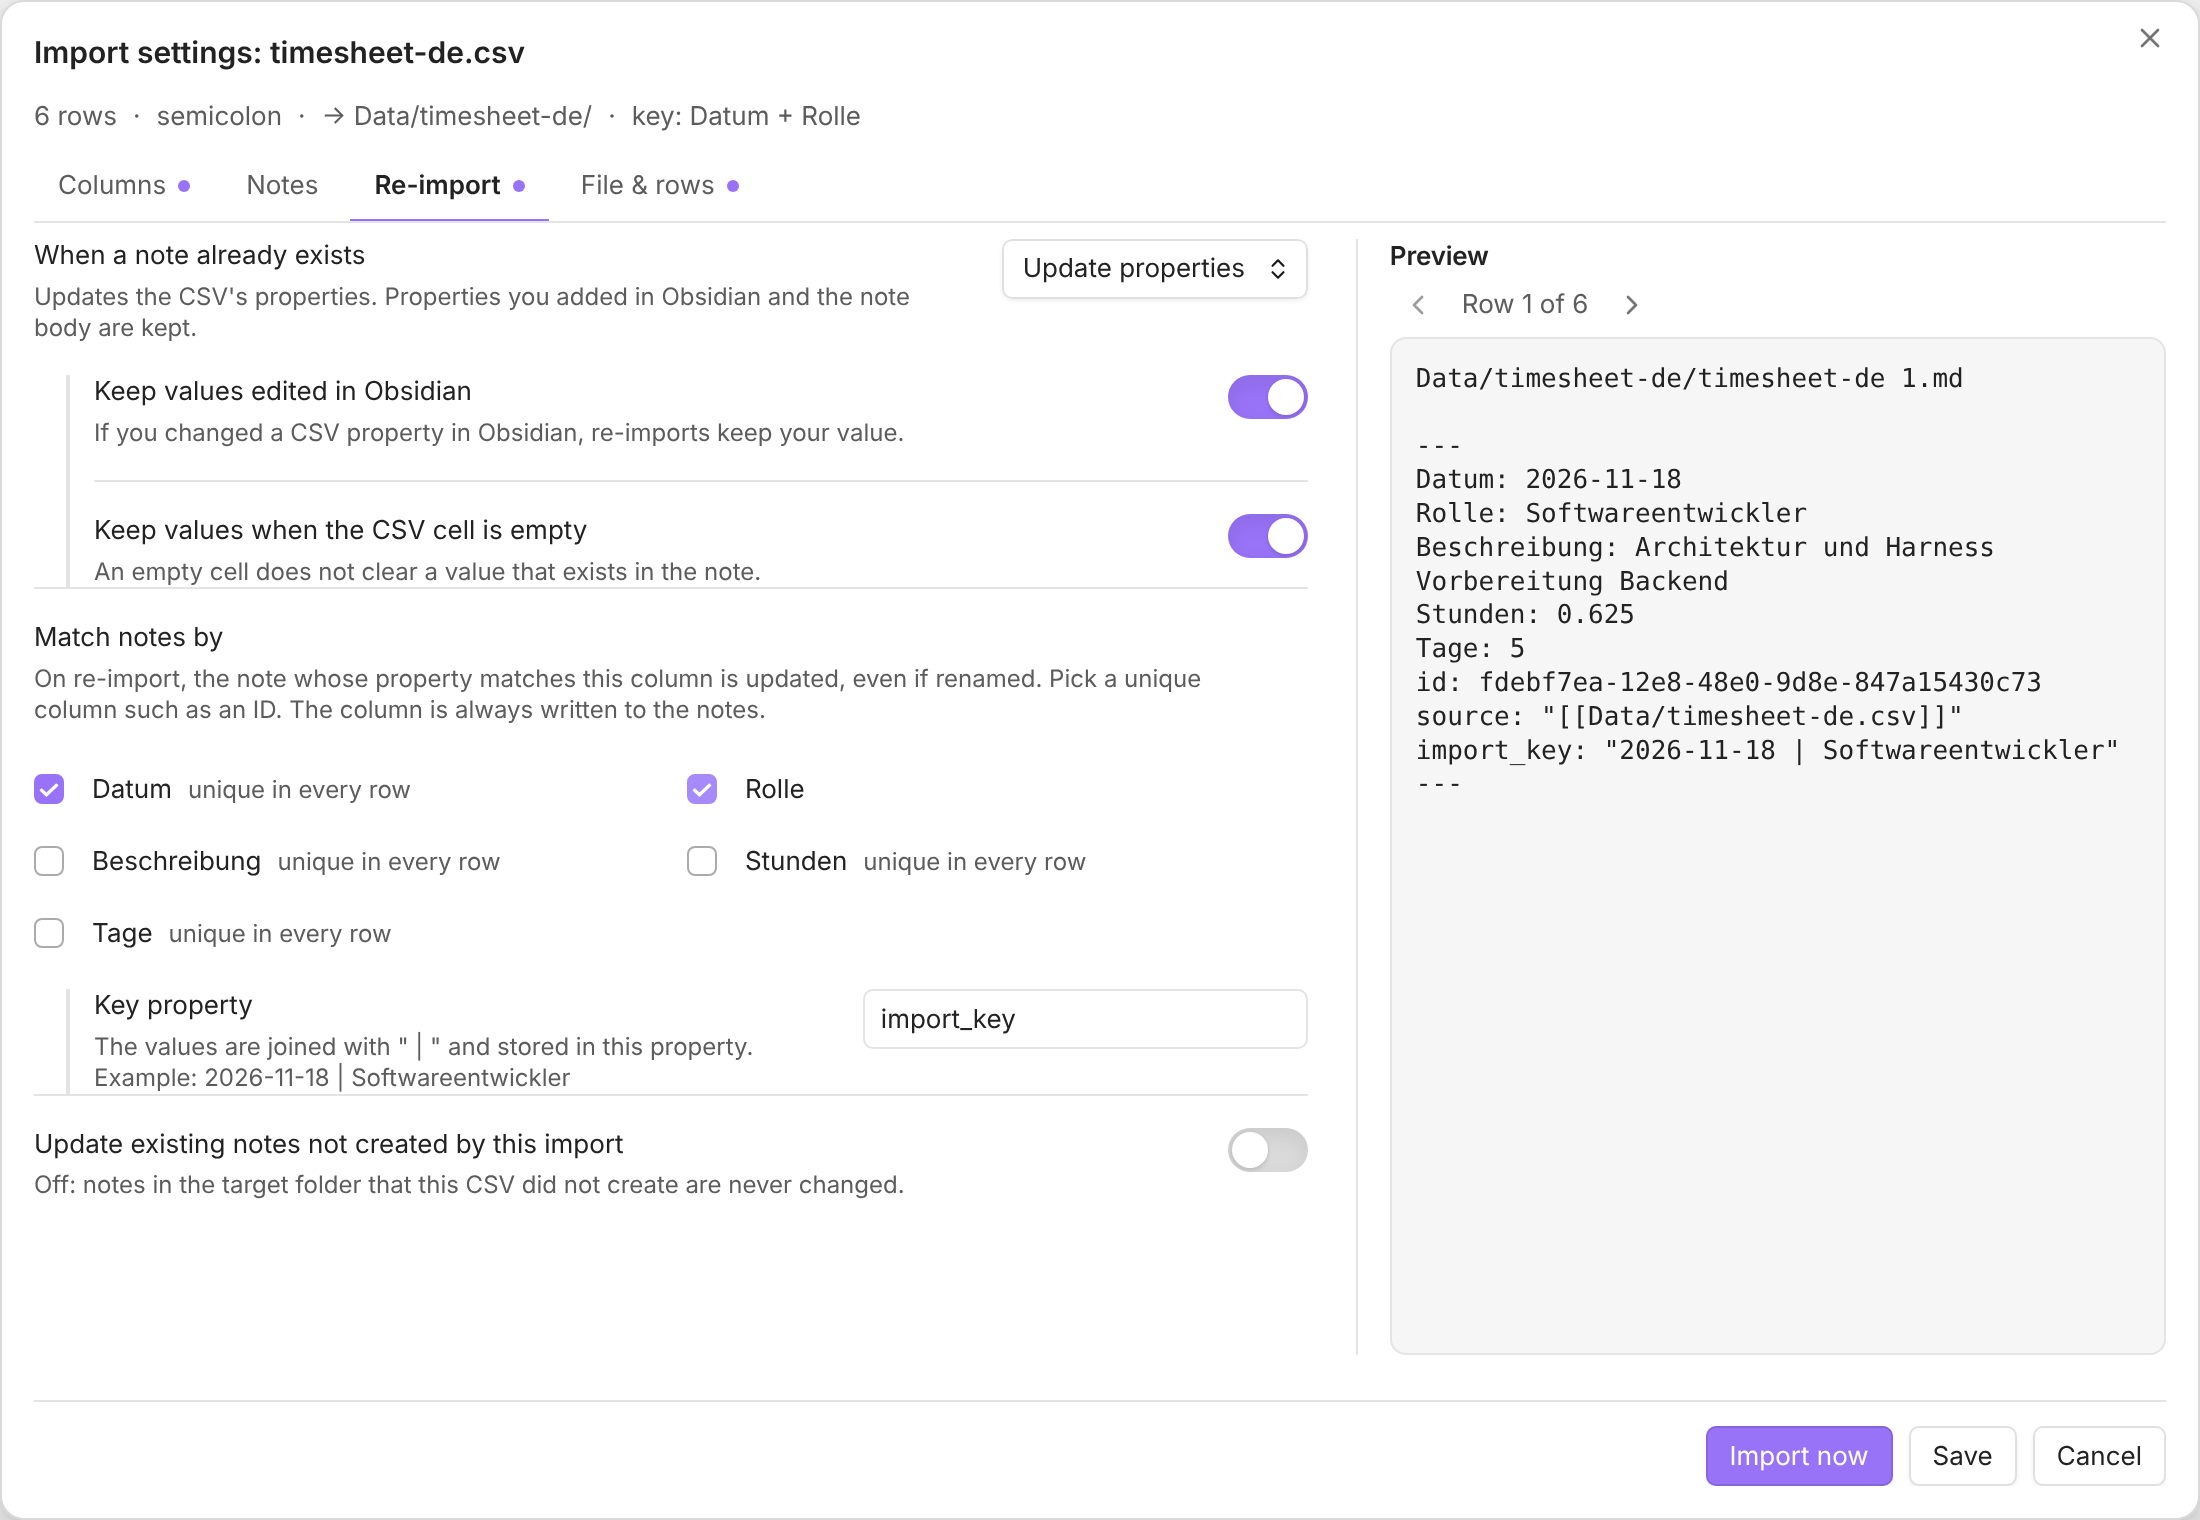
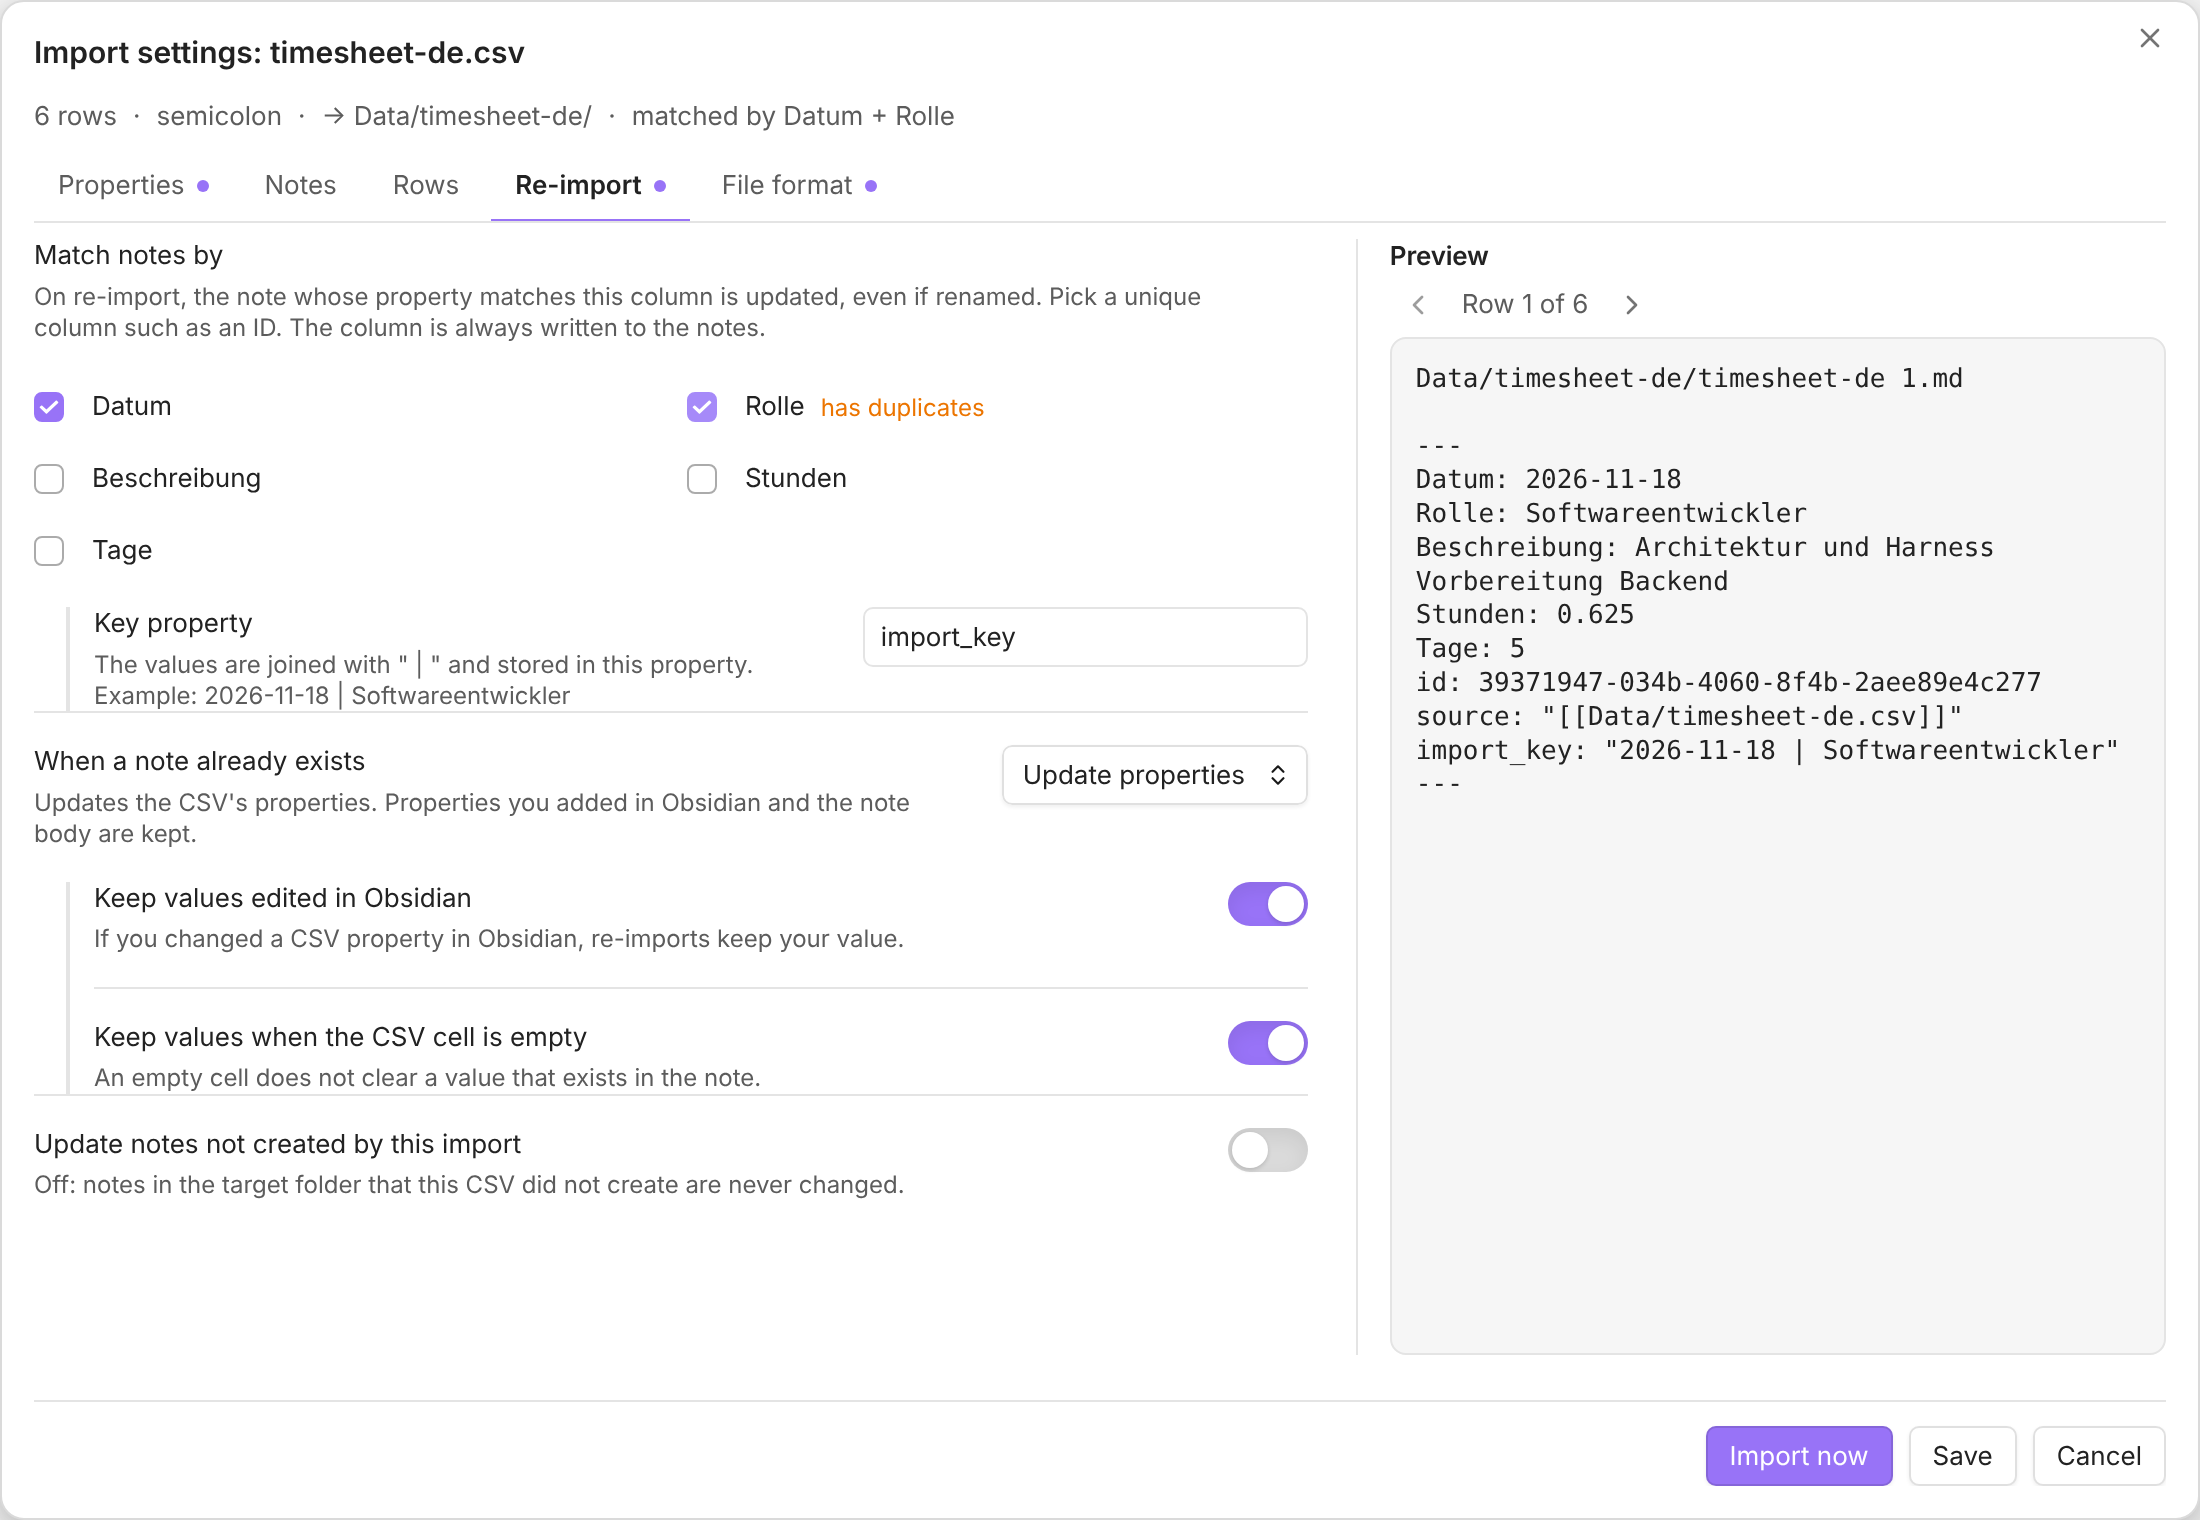
Regenerate README screenshots in real Obsidian; align section headings in the import settings
Claude-Session: https://claude.ai/code/session_012v81oWwwibjoBPovmmKJ4y

diff --git a/tests/e2e/specs/readme-screenshots.e2e.ts b/tests/e2e/specs/readme-screenshots.e2e.ts
@@ -89,6 +89,8 @@ describe("README screenshots", function () {
 		await runCommand("open-import-index");
 		await waitForViewType("csv-importer-index");
 		await browser.$("[data-testid=csv-index-row]").waitForDisplayed();
+		// The imports above leave "Created ….base" notices on screen; remove them so they don't cover the toolbar.
+		await browser.execute(() => document.querySelectorAll(".notice-container .notice").forEach((n) => n.remove()));
 		await browser.pause(800);
 		await capture("[data-testid=csv-index]", "imports-index");
 	});

diff --git a/styles.css b/styles.css
@@ -814,6 +814,13 @@ button.csv-importer-hidden:not(.clickable-icon) {
 	height: 24px;
 }
 
+/* Section headings inside a tab (Extra properties, Values): flush with the rows above, with room between sections.
+   Obsidian indents heading rows in some versions; the dialog's rows are not indented. */
+.csv-importer-config .setting-item.setting-item-heading {
+	padding-inline: 0;
+	margin-top: var(--size-4-4);
+}
+
 /* === end owner:config === */
 
 /* === owner:table-run === */
